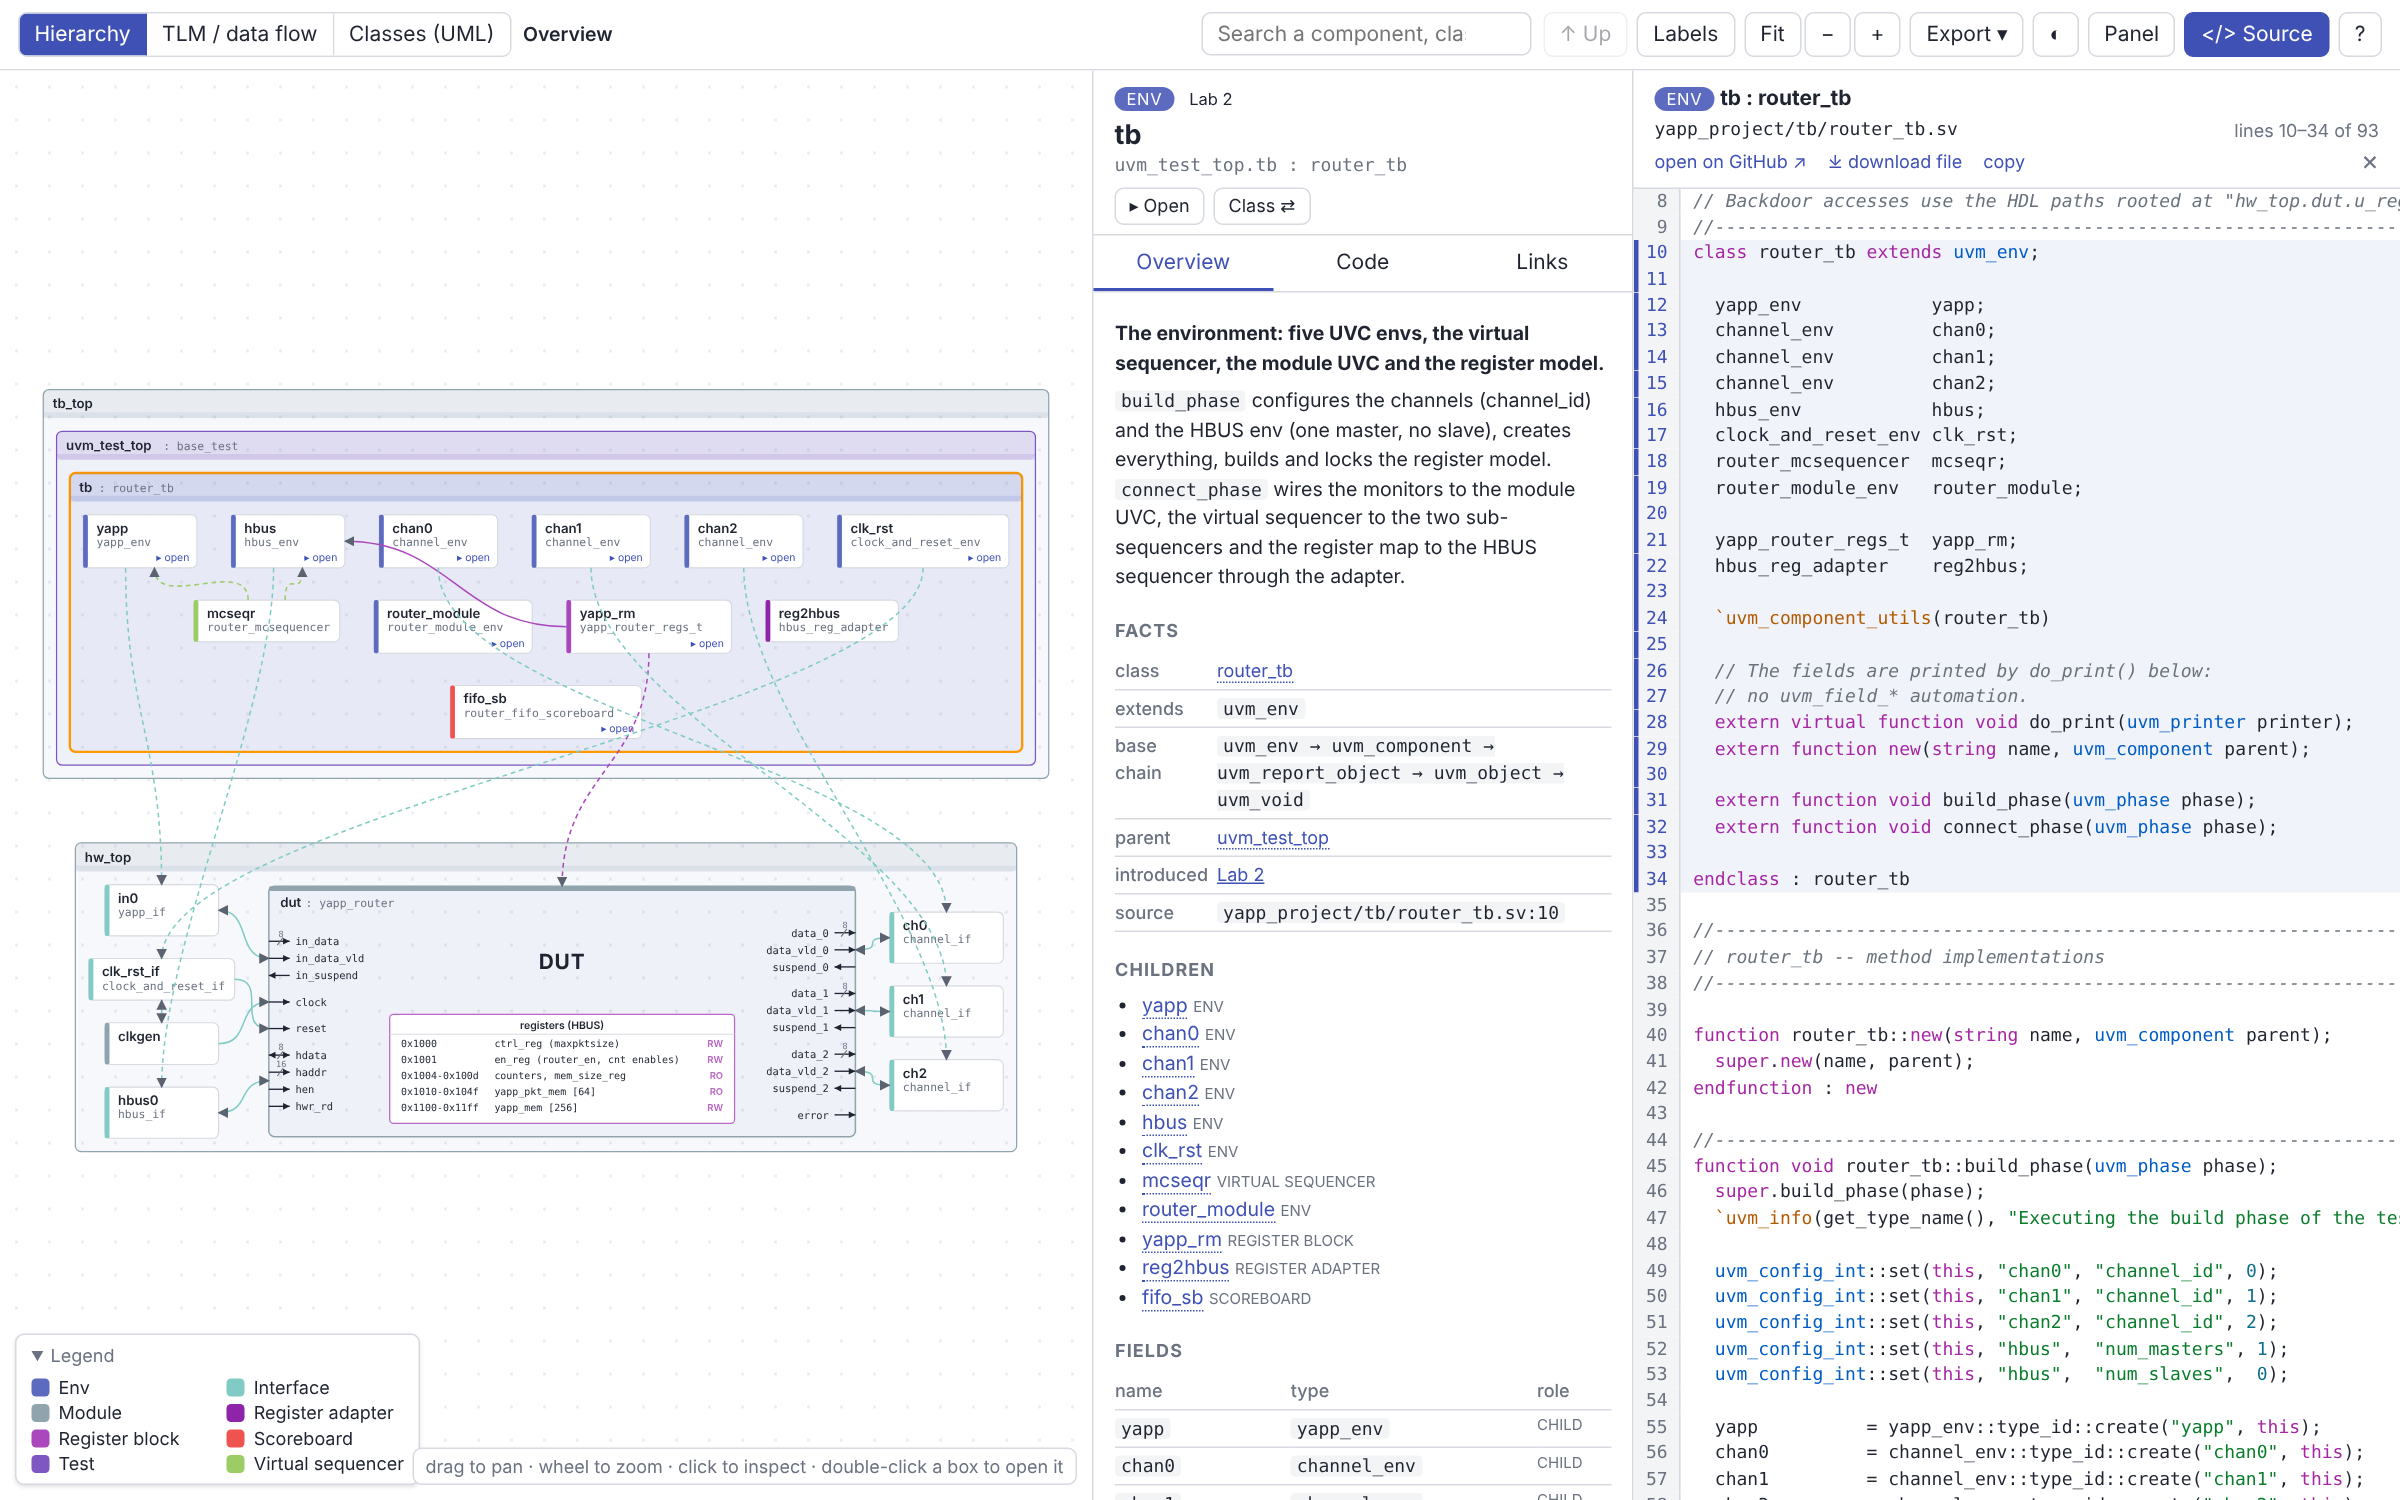
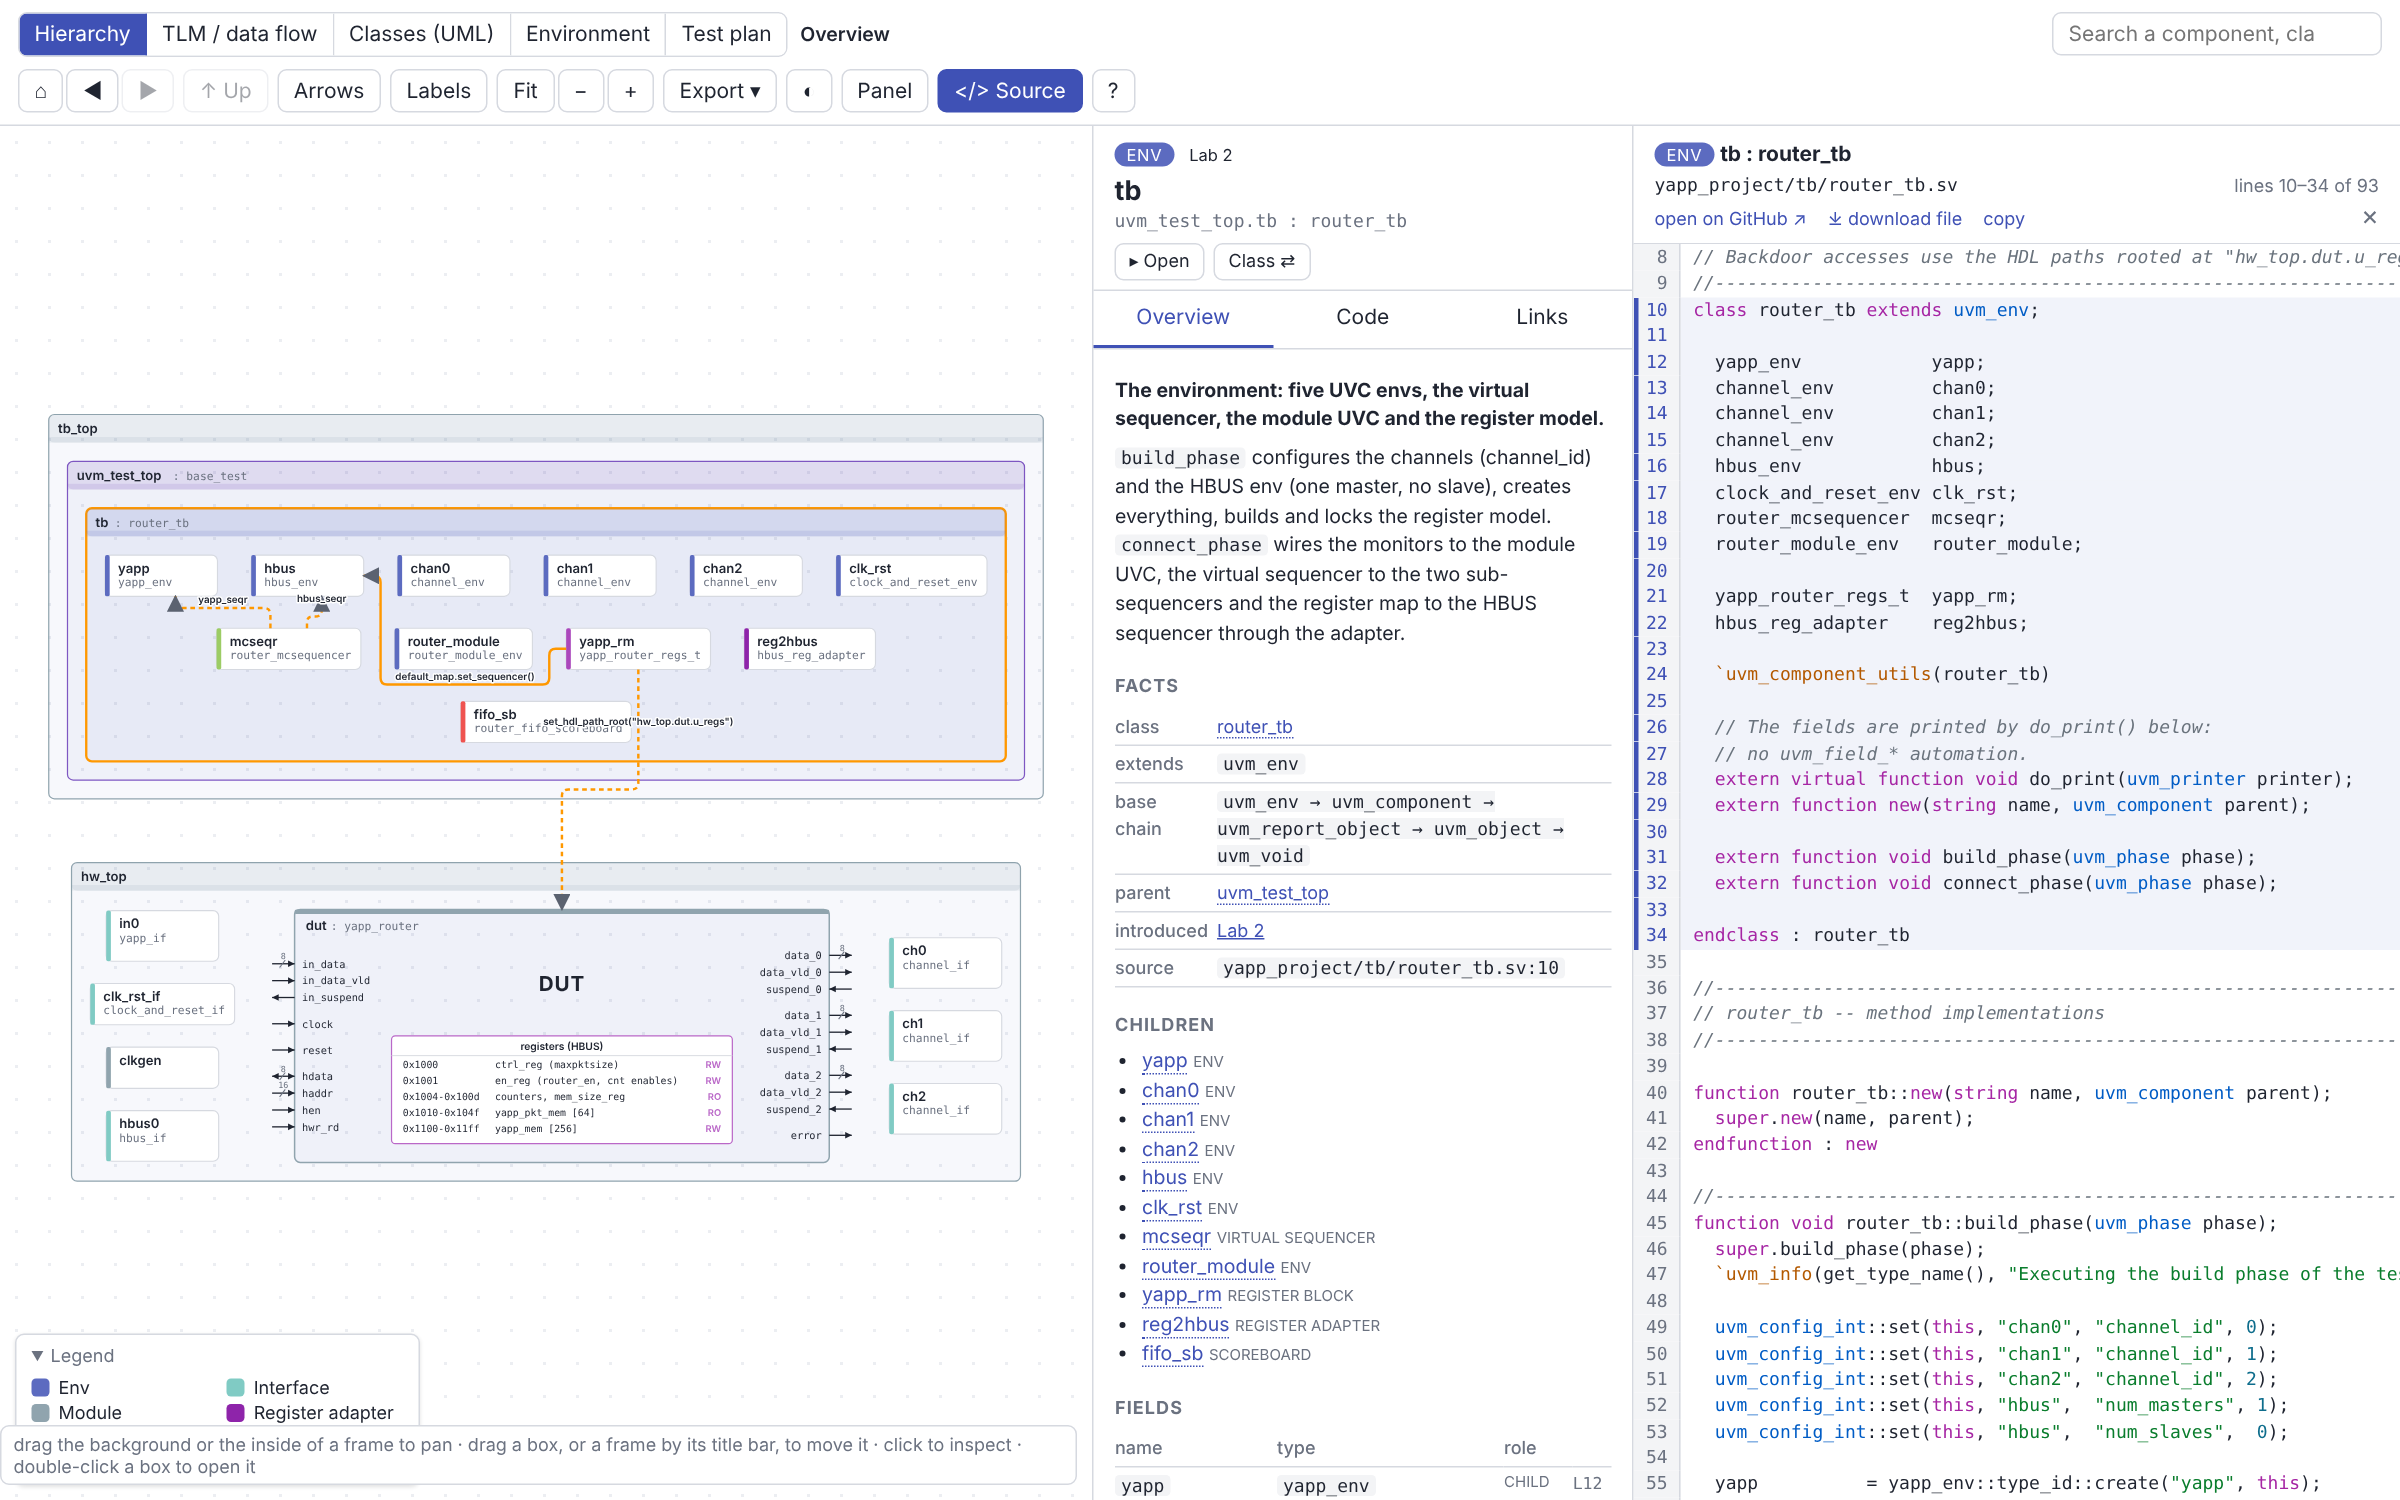
README and HANDOFF refreshed: the test plan section, five new screenshots, next steps by priority
README: a "The test plan" section with its own screenshot (readme_shots.mjs now takes five),
the navigation and drag conventions, the test-plan sequences and tests in the tree,
docs/test-plan.md and CLAUDE.md listed, make run-project in the quick start. All README
screenshots retaken from the current site and map.

HANDOFF: header and current state brought up to date, round 6 in the chronology, the
next steps rewritten in the order chosen (Xcelium run, test plan completion, map UX).

Claude-Session: https://claude.ai/code/session_01UrH8Gk4rEF9BurHjWFsmba

diff --git a/README.md b/README.md
@@ -25,6 +25,7 @@ generated and checked from the same source code.
    - [The DUT and its registers](#the-dut-and-its-registers)
    - [Try it: the register simulator](#try-it-the-register-simulator)
    - [Try it: the packet playground](#try-it-the-packet-playground)
+   - [The test plan](#the-test-plan)
    - [The labs](#the-labs)
 2. [Quick start](#quick-start)
 3. [Repository layout](#repository-layout)
@@ -60,9 +61,10 @@ the sequences and overrides it sets up, the plan items it verifies).
 
 Arrows are drawn orthogonally; in the Hierarchy and TLM views they start hidden and
 appear for the box under the pointer (the **Arrows** button shows them all). Boxes
-can be dragged (a frame by its title bar; its inside pans), the arrows follow, and the
-panel and source column can be resized.
-⌂ returns to the overview, ◀ ▶ walk back and forward through the views visited.
+can be dragged and the arrows follow: a leaf from anywhere, a frame by its title bar
+(dragging inside a frame pans the view, and so do the middle mouse button or
+Space + drag from any point). ⌂ returns to the overview, ◀ ▶ walk back and
+forward through the views visited, and the panel and source column can be resized.
 
 ![The project map: the UVM testbench above, the hardware below, the selected component's role and source on the right](docs/assets/readme/map_overview.png)
 
@@ -135,6 +137,31 @@ the YAPP interface and the input FSM. The packet structure itself is drawn in
 [`docs/assets/packet_structure.svg`](docs/assets/packet_structure.svg) and
 explained next to the code in [`yapp_project/uvc/yapp/README.md`](yapp_project/uvc/yapp/README.md).
 
+### The test plan
+
+The [test plan](https://tamirgabgab.github.io/Qcom-Mentoring/test-plan/) follows the
+pages of the course's DUT description: packet format, input and output protocols,
+registers, drop rules, counters, memories, the HBUS host port, plus the requirements the
+labs add (scoreboard, functional coverage, register tests). It is written as data
+(`scripts/project_map/annotations.yaml`, section `plan`): **11 feature groups, 56 items**,
+each with its stimulus, its checker, its coverage, the tests that cover it and a status.
+The same data draws the **Test plan** view of the map and generates the site page, so the
+three never disagree.
+
+![The Test plan view: the feature groups with their status chips on top, the tests below, one feature open in the panel with every item](docs/assets/readme/map_testplan.png)
+
+Seven tests exist only for the plan, in `yapp_project/tb/tests/`, for the features the
+course's own tests never checked: `router_disable_test` (a disabled router drops and
+counts nothing), `router_filter_test` (lengths around `maxpktsize`, the illegal address,
+every counter with its enable on and off), `pkt_mem_test` (`yapp_pkt_mem` and
+`mem_size_reg` hold the last packet byte by byte, even a dropped one),
+`reg_bit_walk_test` (walking ones and zeros through every RW bit, writes ignored by every
+RO register), `hbus_protocol_test` (raw bus cycles, tri-state after a read, unmapped
+addresses), `backpressure_test` (slow receivers fill the channel FIFOs, `in_suspend`
+stalls the input, no byte is lost) and `parity_error_test` (the counter, the `error`
+pulse within 1..10 cycles, the packet still delivered). Writing `backpressure_test`
+found a real bug in the YAPP driver's handshake, fixed in `yapp_if.sv`.
+
 ### The labs
 
 | Session | Labs | Theme | You end up with |
@@ -164,6 +191,7 @@ cd test_install && xrun -f run.f
 
 # run the complete project (any test of yapp_project/tb/tests)
 cd yapp_project/tb && make run TEST=reg_function_test
+make run-project TEST=backpressure_test     # the same from the root; the test-plan tests start here
 
 # run a lab
 cd labs/lab07_integ/tb && make run TEST=simple_test
@@ -198,12 +226,13 @@ yapp_project/                     the complete project — the source of truth
     yapp_router.f                   file list, used as `-F ../rtl/yapp_router.f`
   uvc/                            the verification components, one class per file
     yapp/                           YAPP input UVC: yapp_packet, driver, monitor (+ coverage), sequencer, agent, env, yapp_if
-      seqs/                           the sequence library (yapp_base_seq, yapp_012_seq, yapp_coverage_seq, …)
+      seqs/                           the sequence library (yapp_base_seq, yapp_012_seq, yapp_coverage_seq, …,
+                                      yapp_pkt_seq and yapp_boundary_seq for the test plan)
       README.md                       the packet structure, next to the code
     hbus/                           HBUS UVC: transaction, master agent, monitor, env, hbus_if, hbus_reg_adapter (RAL)
       seqs/                           write / read / set-default / small / large / enable / disable sequences
     channel/                        Channel UVC: channel_packet, rx agent (driver, monitor, sequencer), env, channel_if
-      seqs/                           channel_rx_resp_seq, channel_rx_fast_seq
+      seqs/                           channel_rx_resp_seq, channel_rx_fast_seq, channel_rx_slow_seq (test plan)
     clock_and_reset/                Clock & Reset UVC: transaction, driver, agent, env, interface, clkgen module
       seqs/                           clk10_rst5_seq, clk_rst_rand_seq
     router/                         router module UVC: router_scoreboard, router_reference, router_module_env,
@@ -233,7 +262,8 @@ docs/                             the course site (MkDocs Material) — see mkdo
   uvm/                              the big picture, architecture, phases, factory & config, TLM
   components/                       one guide per component (packet.md hosts the packet playground)
   labs/                             one page per lab + the session plan
-  test-plan.md, appendix/           test plan; index tables, concept map, pitfalls, xrun options, unverified items
+  test-plan.md                      GENERATED from annotations.yaml (plan + tests): the feature matrix and the tests
+  appendix/                         index tables, concept map, pitfalls, xrun options, unverified items
   assets/
     wave_*.svg                      protocol waveforms (generated by scripts/gen_waves.py)
     packet_structure.svg            the YAPP packet layout (generated)
@@ -258,7 +288,7 @@ scripts/
     build.py                        writes model.json, regmap.js and the standalone HTML (`make map`, `--check`)
     test_model.py                   consistency checks, incl. regmap.yaml ⇔ RTL ⇔ register model
     test_sim.mjs                    behavioural checks of sim.js (RouterModel) with node (`make map-check`)
-    annotations.yaml                the hand-written half: roles, labs, layout hints
+    annotations.yaml                the hand-written half: roles, labs, layout hints, the test plans and the feature plan
     regmap.yaml                     the register map as data (picture, simulator, checks)
     export.mjs                      renders every view to SVG / PNG / PDF (`make map-export`)
 common/
@@ -269,7 +299,8 @@ test_install/                     the UVM installation check
   lint.yml                          style check, slang lint of every run.f, project-map staleness check
   docs.yml                          builds the site and deploys it to GitHub Pages
 Makefile                          lint · style · run · run-project · docs · serve · map · map-check · map-export · readme-shots
-HANDOFF.md                        working notes for continuing the development
+HANDOFF.md                        working notes for continuing the development (state, decisions, next steps)
+CLAUDE.md                         the conventions an AI assistant follows in this repository (points to HANDOFF.md)
 ```
 
 Files marked GENERATED are committed so that the site and the offline map
@@ -316,8 +347,9 @@ python3 scripts/sv_style.py --check --diff path/to/file.sv
 * **The project map** is generated from the SystemVerilog:
   `make map` (pyslang reads the classes, ports, `connect()` calls and the
   module tree; `annotations.yaml` adds the prose and the layout hints) and
-  `make map-check` fails when the committed `model.json`, `regmap.js` or
-  standalone HTML no longer match the code — so the map never drifts. After
+  `make map-check` fails when the committed `model.json`, `regmap.js`,
+  standalone HTML or `docs/test-plan.md` no longer match the code — so the map and
+  the test plan never drift. After
   changing any `.sv` file, `app.js`, `sim.js` or `regmap.yaml`: `make map` and
   commit the results; `make map-export` refreshes the pictures.
 * **The register map** lives once, in `scripts/project_map/regmap.yaml`. It
@@ -335,7 +367,12 @@ python3 scripts/sv_style.py --check --diff path/to/file.sv
 * **CI.** `lint.yml` runs on every push: style check → slang lint → map
   staleness check (incl. `test_model.py` and `test_sim.mjs`). `docs.yml` builds the site with `mkdocs build --strict`
   and deploys it to GitHub Pages from `main`.
-* **Screenshots.** `make readme-shots` rebuilds the site and retakes the
+* **The test plan** is data too: `annotations.yaml` holds every feature item and every
+  test's plan, `model.py` turns them into feature nodes with *covers* edges to the tests,
+  `test_model.py` checks that every test named exists and every test is named by at least
+  one item, and `build.py` writes `docs/test-plan.md`. A new test needs a summary, a plan
+  and a plan item in the YAML, then `make map`.
+* **Screenshots.** `make readme-shots` rebuilds the site and retakes the five
   pictures of this README with headless Chromium (Playwright).
 
 ### What has not been verified
@@ -346,7 +383,9 @@ register model follow the specification carefully, and the corner cases the
 specification leaves open are documented and implemented consistently (see
 "Decisions" on the DUT page), but
 [`docs/appendix/unverified.md`](docs/appendix/unverified.md) lists what only a
-run on Xcelium can confirm. Please report what you see.
+run on Xcelium can confirm. The seven test-plan tests are the newest code and the first
+to run: they also exercise the corrected `in_suspend` handshake of `yapp_if.sv`, which
+every lab from 6 on shares. Please report what you see.
 
 No Cadence material is included: the DUT, the "provided" UVCs, the interfaces,
 the register model and every figure were written for this repository.
